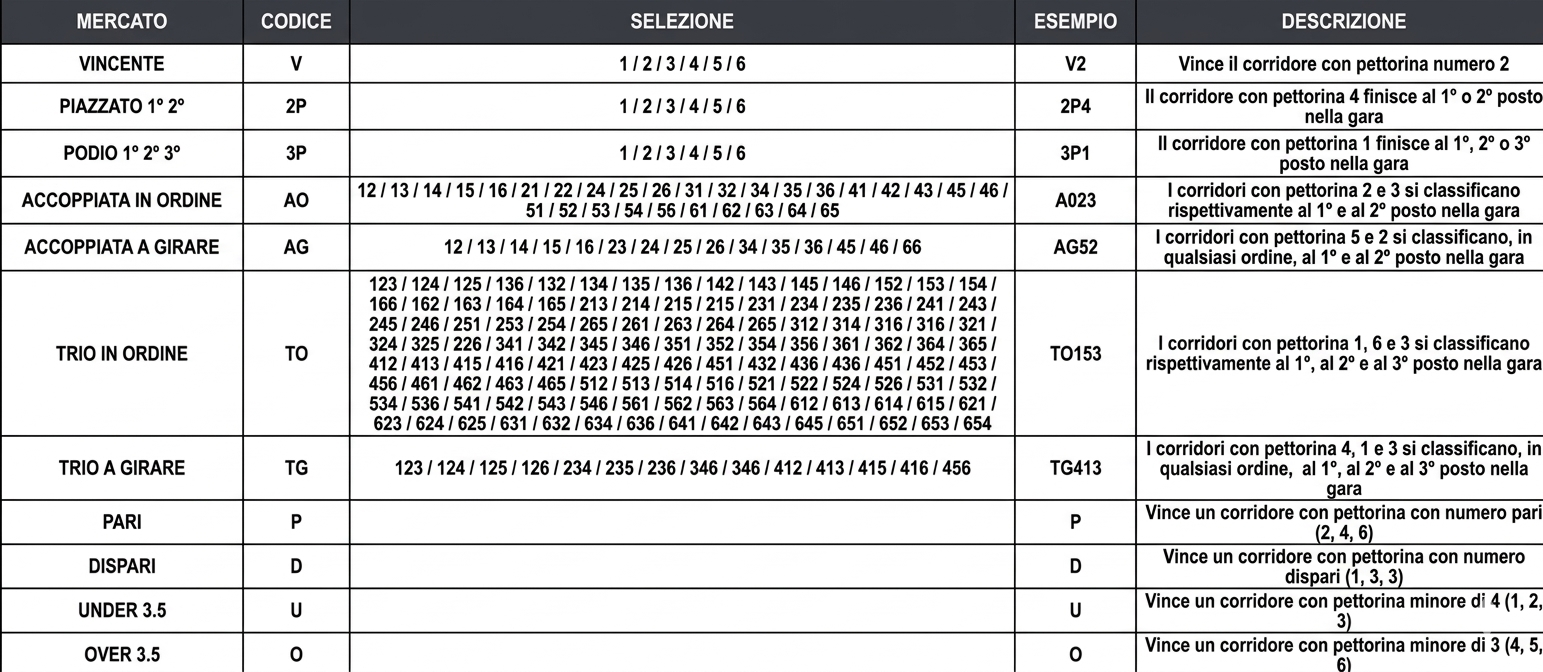
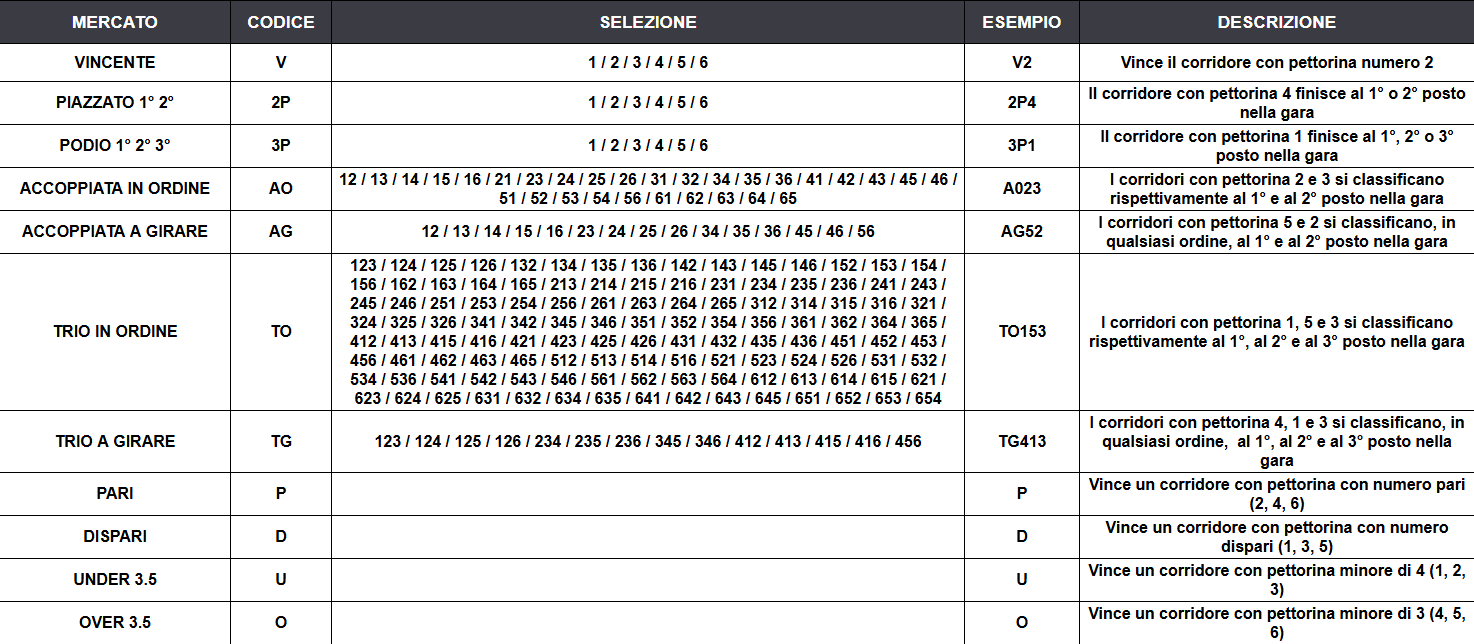
funzionalità alzare combinations

Changed region(s): [[0.0, 0.0, 1.0, 1.0], [0.0312, 0.4969, 0.1248, 0.559]]

diff --git a/src/retail-components/numeric-keypad-drawer.tsx b/src/retail-components/numeric-keypad-drawer.tsx
@@ -190,7 +190,7 @@ export default function NumericKeypadDrawer(props: {
           <Button
             variant="ghost"
             size="sm"
-            className="h-8 w-7 bg-infoBackground disabled:bg-disabledButton p-3 text-[19px] text-bet-foreground hover:opacity-90"
+            className="h-8 w-7 bg-infoBackground p-3 text-[19px] text-bet-foreground hover:opacity-90"
             disabled={displayValue <= 0}
             onClick={(e) => {
               e.stopPropagation()
@@ -319,11 +319,11 @@ export default function NumericKeypadDrawer(props: {
           </div>
 
           {/* Keypad */}
-          <div className="grid grid-cols-3 space-x-3 space-y-3">
+          <div className="grid grid-cols-3 gap-3">
             <Button
               variant="outline"
               size="lg"
-              className="h-12 text-[20px] font-semibold tabular-nums w-[112px] relative left-3 top-3"
+              className="h-12 text-[20px] font-semibold tabular-nums w-[112px]"
               onClick={() => handleNumberClick('1')}
             >
               1

diff --git a/src/retail-components/betting-slip.tsx b/src/retail-components/betting-slip.tsx
@@ -425,12 +425,22 @@ export default function BettingSlip({
       }, 0)
   }, [systemGroups, selectedGroups])
 
-  const scrollAreaHeight = useMemo(() => {
-    const numGroups = systemGroups.length
-    const groupHeight = 59
-    const groupsToShow = Math.min(Math.max(numGroups, 1), 3)
-    return groupHeight * groupsToShow
-  }, [systemGroups.length])
+const scrollAreaHeight = useMemo(() => {
+  const groupHeight = 59
+  const expandedHeight = 57
+  const numGroups = systemGroups.length
+  const groupsToShow = Math.min(Math.max(numGroups, 1), 3)
+  const baseHeight = groupHeight * groupsToShow
+
+  // Espande solo se c'è un solo gruppo e questo è aperto
+  const lastVisibleGroupName = systemGroups[groupsToShow - 1]?.name
+  const isLastGroupOpen = lastVisibleGroupName ? systemGroupsOpen.includes(lastVisibleGroupName) : false
+  const isSingleGroup = numGroups === 1
+
+  return baseHeight + (isSingleGroup && isLastGroupOpen ? expandedHeight : 0)
+}, [systemGroups, systemGroupsOpen])
+
+
 
   useEffect(() => {
     if (betMode === 'SYSTEM') {

diff --git a/src/app/globals.css b/src/app/globals.css
@@ -488,7 +488,7 @@
     --loading1: 210, 3%, 47%;
     --loading1-foreground: 0 0% 0%;
     
-    --loading2: 233 6% 25%;
+    --loading2: 233 6% 20%;
     --loading2-foreground: 0 0% 100%;
 
     --backgroundBetslip: 233 6% 25%;
@@ -642,4 +642,23 @@ body > main > div > div > div.h-\[950px\].w-\[400px\].relative.right-1.shrink-0.
   background-color: white;
   position: relative;
   bottom: 8px;
+}
+
+
+button.inline-flex:nth-child(6){
+  display: none;
+}
+
+
+button.h-10:nth-child(6){
+  display: none;
+}
+
+button.h-10:nth-child(6){
+  display: none;
+}
+
+
+[data-vaul-drawer][data-vaul-snap-points="false"][data-vaul-drawer-direction="bottom"][data-state="open"]{
+  top: 456px;
 }

diff --git a/src/retail-components/event-bets.tsx b/src/retail-components/event-bets.tsx
@@ -86,7 +86,7 @@ export default function EventBets(props: {
                   : t('horse_races_label')}
             </span>
 
-            <div className="flex items-center space-x-2">
+            <div className="flex items-center space-x-2 mr-1">
               <span className="relative left-[1px] text-[15px] font-bold tabular-nums">
                 {format(eventBets[0].bet.event.startingAt, 'HH:mm')}
               </span>

diff --git a/src/retail-components/alphanumeric-keypad-drawer.tsx b/src/retail-components/alphanumeric-keypad-drawer.tsx
@@ -197,7 +197,7 @@ export default function AlphanumericKeypadDrawer(props: {
           </Button>
         </DrawerHeader>
 
-        <div className="flex flex-col space-x-3 space-y-3 p-3">
+        <div className="flex flex-col gap-3 p-3">
           {/* Number Row */}
           <div className="grid grid-cols-11 gap-2">
             {['1', '2', '3', '4', '5', '6', '7', '8', '9', '0'].map((num) => (
